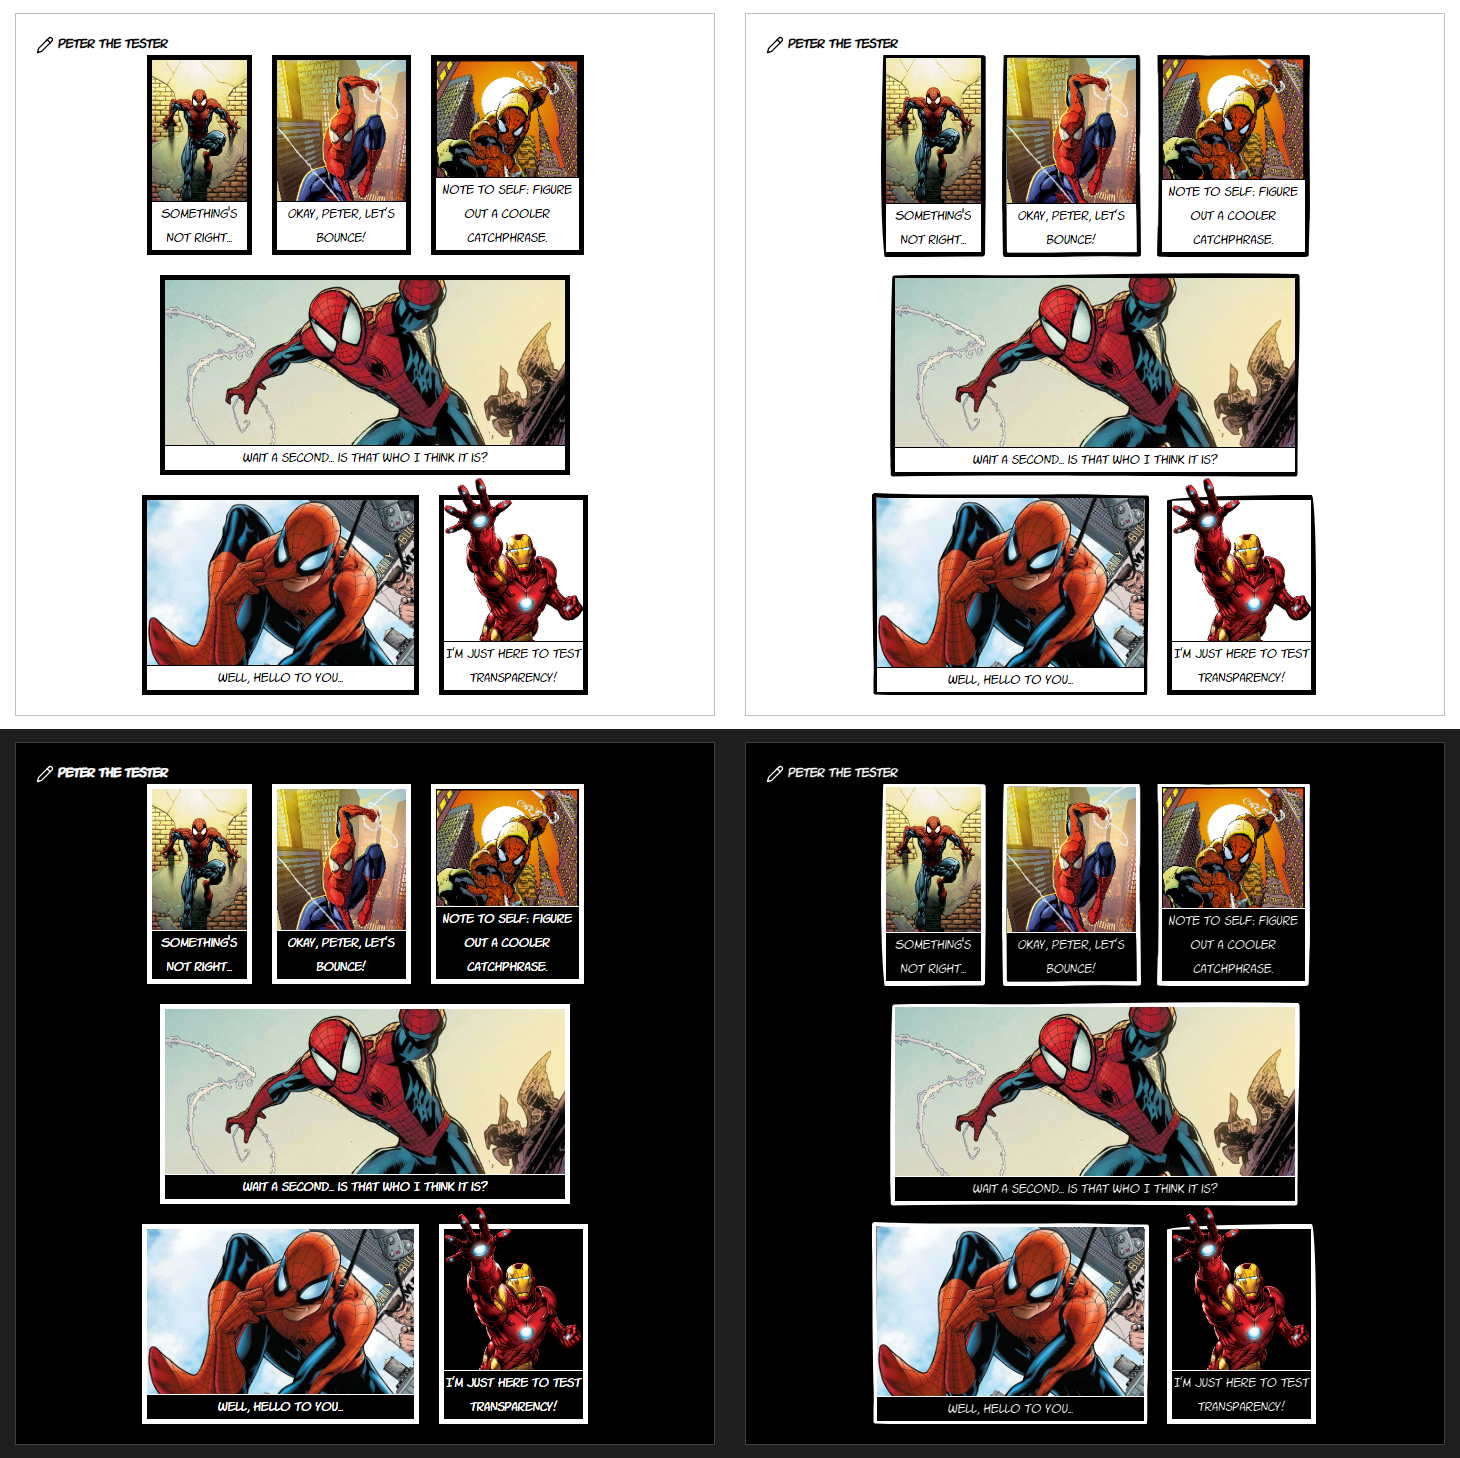
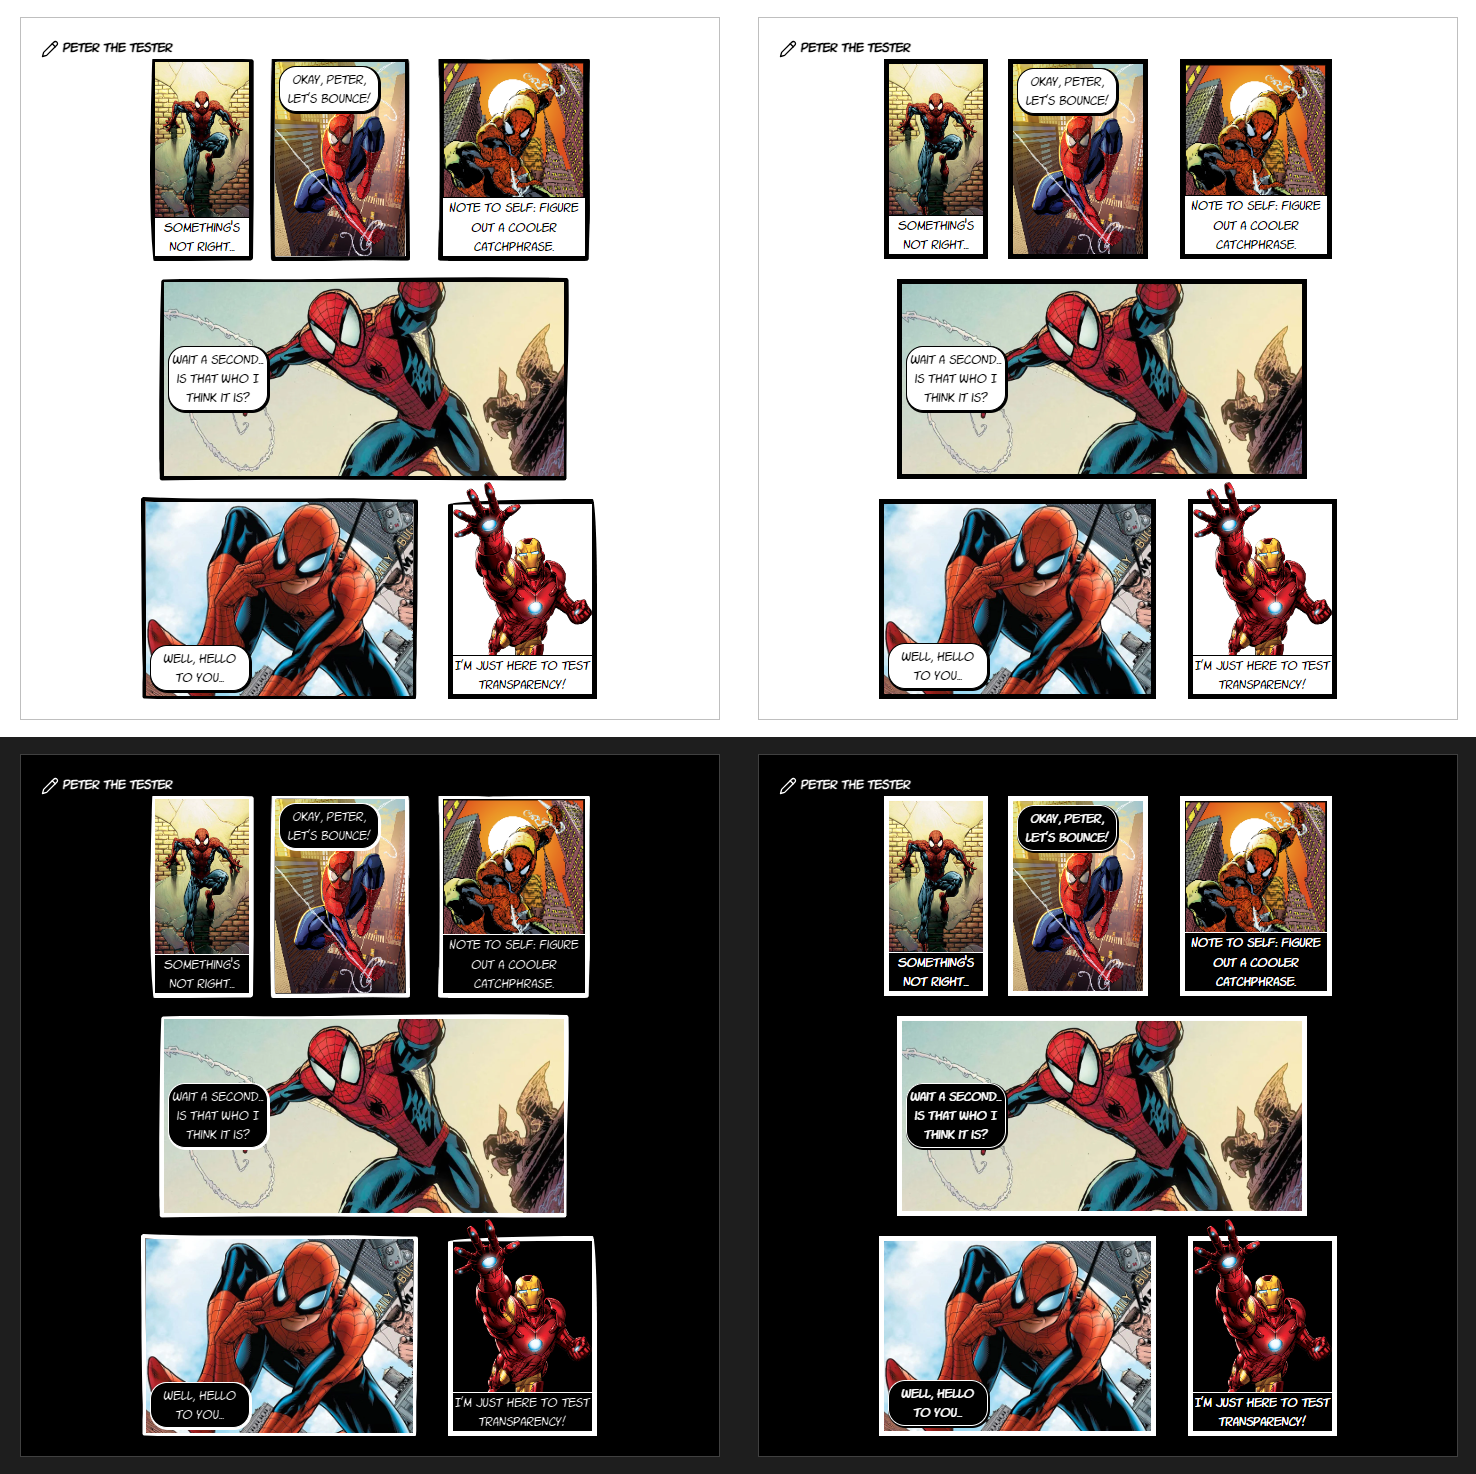
comic: add bubbles

diff --git a/snippets/callouts/callout-comic.css b/snippets/callouts/callout-comic.css
@@ -67,6 +67,30 @@ Author: ElsaTam (Kapirklaa in Discord)
     }
 }
 
+.callout[data-callout="comic-panel"][data-callout-metadata~="bubble"] {
+    > .callout-content > *:not(:has(img)) {
+        border-radius: 17px;
+        --g: 4px; /* gap with the boundaries */
+        --s: 1px; /* hard shadow size */
+        padding: 3px;
+        width: 100px;
+        margin: auto;
+        height: fit-content;
+        max-width: calc(100% - var(--g) * 2 - var(--s));
+        right: calc(var(--g) + var(--s));
+        top: var(--g);
+        bottom: calc(var(--g) + var(--s));
+        left: var(--g);
+        border: 1px solid rgb(var(--comic-color));
+        box-shadow: 1px 1px 0px 1px #000000;
+    }
+
+    &[data-callout-metadata~="top"] > .callout-content > *:not(:has(img)) { bottom: unset; }
+    &[data-callout-metadata~="bottom"] > .callout-content > *:not(:has(img)) { top: unset; }
+    &[data-callout-metadata~="left"] > .callout-content > *:not(:has(img)) { right: unset; }
+    &[data-callout-metadata~="right"] > .callout-content > *:not(:has(img)) { left: unset; }
+}
+
 .callout[data-callout="comic-panel"][data-callout-metadata~="overflow"] {
     --g: 3px; /* small gap to avoid touching other panels */
     --b: 5px; /* border-width */

diff --git a/snippets/callouts/README.md b/snippets/callouts/README.md
@@ -685,6 +685,8 @@ There is an option to turn everything black and white: `> [!comic|no-color]`.
 
 On the panels, you can add the option `|overflow` to let an image slightly overflow the content from the top. See last panel of the example. Only use this feature with transparent images.
 
+On each panels, you can also add the option `|bubble` combined with `top`, `bottom`, `left`, `right` keywords. By default, a bubble will be centered in the middle of the panel. If you specify only one axis, it wil stay centered on the other one. To place the buble in a corner, specify the two axis, like so: `|bubble top right`
+
 ![comic](screenshots/comic.png)
 
 ```md
@@ -694,7 +696,7 @@ On the panels, you can add the option `|overflow` to let an image slightly overf
 > > 
 > > Something’s not right...
 > 
-> > [!comic-panel]
+> > [!comic-panel|bubble top left]
 > > ![[Spiderman 2.png]]
 > > 
 > > Okay, Peter, let's bounce!
@@ -704,12 +706,12 @@ On the panels, you can add the option `|overflow` to let an image slightly overf
 > > 
 > > Note to self: figure out a cooler catchphrase.
 > 
-> > [!comic-panel]
+> > [!comic-panel|bubble left]
 > > ![[Spiderman 4.png]]
 > > 
 > > Wait a second... is that who I think it is?
 > 
-> > [!comic-panel]
+> > [!comic-panel|bubble bottom left]
 > > ![[Spiderman 5.png]]
 > > 
 > > Well, hello to you...
